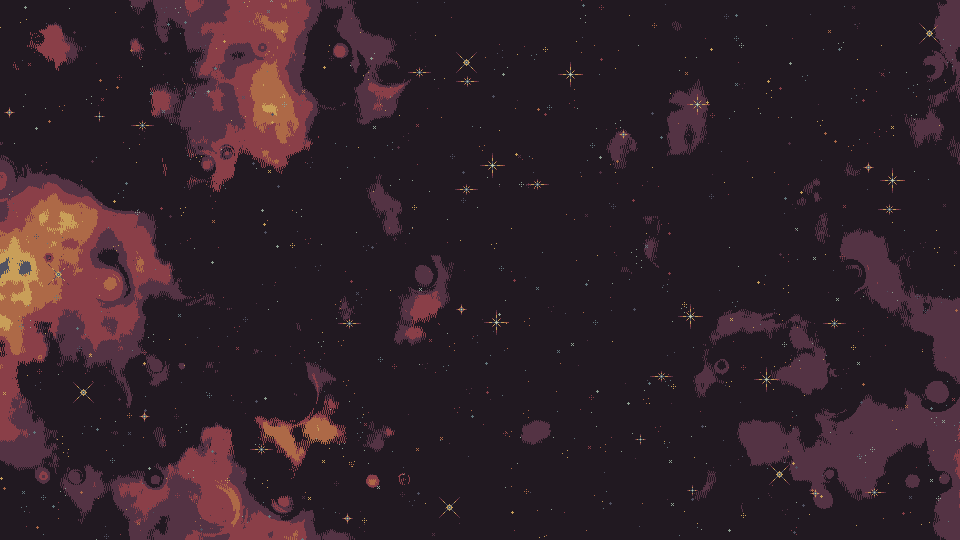
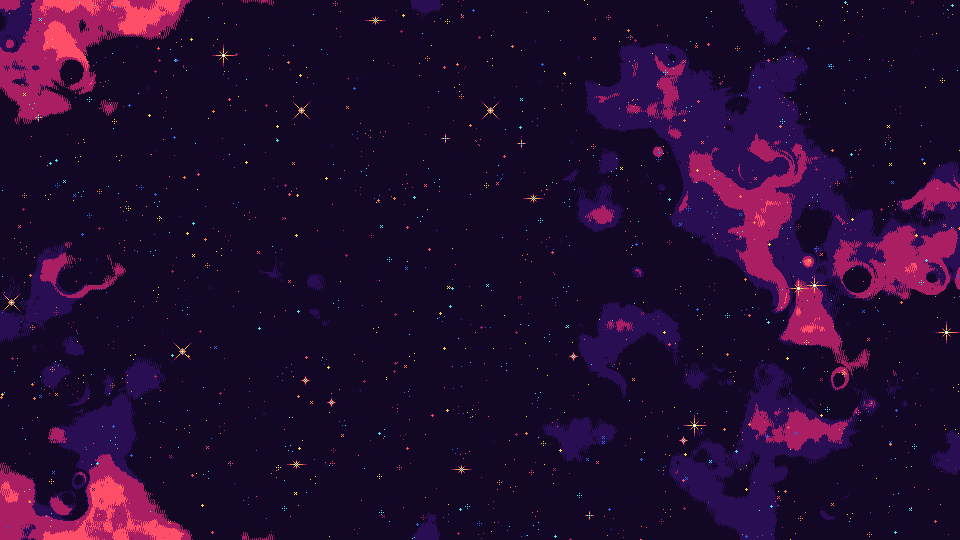
changed background

diff --git a/src/player.hpp b/src/player.hpp
@@ -65,8 +65,8 @@ class Player {
         const float wallFallFriction{0.70f};
 
         const float movementPressDelay{5.0f / Globals::referenceFPS}; // 5 frames/sec
-        const float maxJumpHoldTime{10.0f / Globals::referenceFPS};
-        const float jumpHoldForce{0.9f};
+        const float maxJumpHoldTime{12.0f / Globals::referenceFPS};
+        const float jumpHoldForce{0.7f};
         
         std::vector<Bullet> bullets;
         std::vector<Rectangle> bulletRects;
